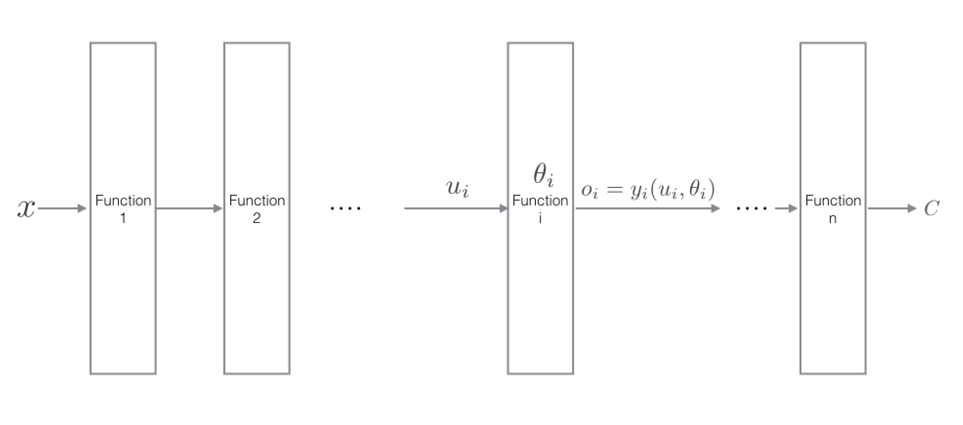
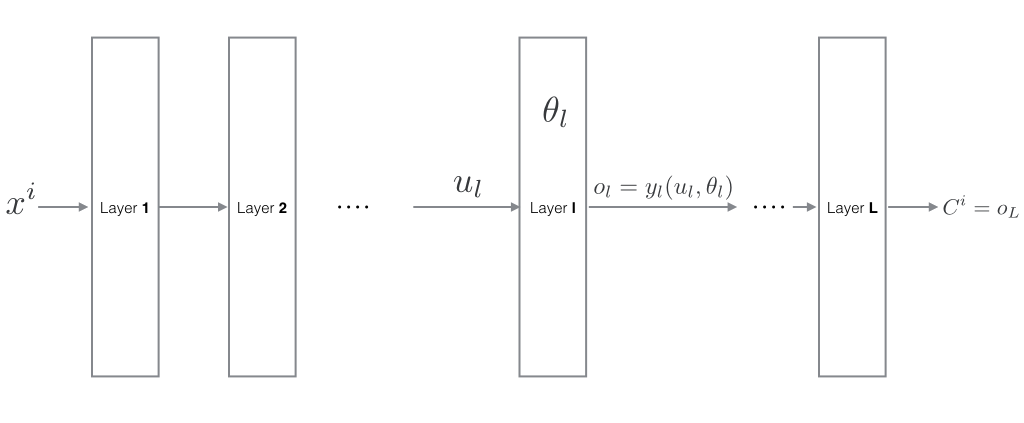
backprop variable names changed

diff --git a/_drafts/deep-learning-crash-course-1.md b/_drafts/deep-learning-crash-course-1.md
@@ -381,27 +381,30 @@ $$ C_i(\theta) = L\left(y(x^i, \theta), y^i \right)$$
 </figure>
 </div>
 
-Let's break the above function into composition of layers (or functions in general).
+Let's break the above function into composition of layers (or functions in general)<span id="brevity" class="margin-toggle sidenote-number"></span>
+<span class="sidenote">
+    Dropping subscript for brevity
+</span>
 
-$$ C = y_n \circ \ y_{n-1} \circ \cdots \circ y_1 $$
+$$ C = y_L \circ \ y_{L-1} \circ \cdots \circ y_l \circ \cdots \circ y_1 $$
 
-Here, $i$th 
+Here, $l$th 
 <span id="backprop" class="margin-toggle sidenote-number"></span>
 <span class="sidenote">
-    In particular, $C = o_n = y_n(u_n) = L(u_n, x_i)$
+    In particular, $C = o_L = y_L(u_L) = L(u_L, y^i)$
 </span>
-function takes in input $u_i$ and outputs 
+layer/function takes in input $u_l$ and outputs 
 
-$$o_i = y_i(u_i, \theta_i)  \tag{1}$$ 
+$$o_l = y_l(u_l, \theta_l)  \tag{1}$$ 
 
-where $\theta_i$ are learnable parameters of this function.
-Since output of $i-1$th layer is fed to $i$th layer as input, 
+where $\theta_l$ are learnable parameters of this layer.
+Since output of $l-1$th layer is fed to $l$ th layer as input, 
 
-$$u_i = o_{i-1} \tag{2}$$
+$$u_l = o_{l-1} \tag{2}$$
 
-We require $\nabla C = \left(\frac{\partial C}{\partial\theta_1}, \frac{\partial C}{\partial\theta_2}, \ldots, \frac{\partial C}{\partial\theta_n}\right)$. Therefore, we need to compute
+We require $\nabla C = \left(\frac{\partial C}{\partial\theta_1}, \frac{\partial C}{\partial\theta_2}, \ldots, \frac{\partial C}{\partial\theta_L}\right)$. Therefore, we need to compute
 
-$$ \frac{\partial C}{\partial\theta_j} = \frac{\partial o_n}{\partial\theta_j} 
+$$ \frac{\partial C}{\partial\theta_j} = \frac{\partial o_L}{\partial\theta_j} 
 \text{ for } j = 1, 2, \dots n $$
 
 To compute this quantity, we will compute generic
@@ -410,7 +413,7 @@ To compute this quantity, we will compute generic
     You will see ahead why this quantity is useful.
 </span>:
 
-$$ \frac{\partial o_i}{\partial \theta_j} $$
+$$ \frac{\partial o_m}{\partial \theta_l} $$
 
 Before getting started, let's write down the chain rule. Chain rule is the underlying operation of our algorithm.
 
@@ -424,55 +427,55 @@ $$
 
 ---
 
-If $j > i$, 
+If $m > l$, 
 
-$$ \frac{\partial o_i}{\partial \theta_j} = 0 \tag{4}$$
+$$ \frac{\partial o_m}{\partial \theta_l} = 0 \tag{4}$$
 
-because output of the functions in back doesn't depend on parameters of layer in the front.
+because output of the layers in back doesn't depend on parameters of layer in the front.
 
-If $j = i$, using equation (1) and the fact that $u_i$ and $\theta_i$ are independent,
+If $m = l$, using equation (1) and the fact that $u_l$ and $\theta_l$ are independent,
 
 $$ 
-\frac{\partial o_i}{\partial \theta_i} = \frac{\partial y_i}{\partial \theta_i}
+\frac{\partial o_l}{\partial \theta_l} = \frac{\partial y_l}{\partial \theta_l}
  \tag{5}
 $$
 
-$\frac{\partial y_i}{\partial \theta_i}$ is a computable quantity which depends on the form of function $y_i$.
+$\frac{\partial y_l}{\partial \theta_l}$ is a computable quantity which depends on the form of layer $y_l$.
 
-If $j < i$, using equation (1), (2), chain rule (3), 
+If $m < l$, using equation (1), (2), chain rule (3), 
 
 $$ 
 \begin{align}
-\frac{\partial o_i}{\partial \theta_j} &= \frac{\partial y_i}{\partial \theta_j}\\
-&= \frac{\partial y_i}{\partial u_i} * \frac{\partial u_i}{\partial \theta_j} + \frac{\partial y_i}{\partial \theta_i} * \frac{\partial \theta_i}{\partial \theta_j}\\
-&= \frac{\partial y_i}{\partial u_i} * \frac{\partial u_i}{\partial \theta_j}\\
-&= \frac{\partial y_i}{\partial u_i} * \frac{\partial o_{i-1}}{\partial \theta_j}
+\frac{\partial o_m}{\partial \theta_l} &= \frac{\partial y_m}{\partial \theta_l}\\
+&= \frac{\partial y_m}{\partial u_m} * \frac{\partial u_m}{\partial \theta_l} + \frac{\partial y_m}{\partial \theta_m} * \frac{\partial \theta_m}{\partial \theta_l}\\
+&= \frac{\partial y_m}{\partial u_m} * \frac{\partial u_m}{\partial \theta_l}\\
+&= \frac{\partial y_m}{\partial u_m} * \frac{\partial o_{m-1}}{\partial \theta_l}
 \end{align}
 $$
 
 Therefore,
 
 $$
-\frac{\partial o_i}{\partial \theta_j} = \frac{\partial y_i}{\partial u_i} * \frac{\partial o_{i-1}}{\partial \theta_j}
+\frac{\partial o_m}{\partial \theta_l} = \frac{\partial y_m}{\partial u_m} * \frac{\partial o_{m-1}}{\partial \theta_l}
 \tag{6}
 $$
 
-Like $\frac{\partial y_i}{\partial \theta_i}$, $\frac{\partial y_i}{\partial u_i}$ is a computable quantity which depends on $y_i$.
+Like $\frac{\partial y_l}{\partial \theta_l}$, $\frac{\partial y_l}{\partial u_l}$ is a computable quantity which depends on layer $y_l$.
 
 Let's put everything together and compute the required quantity:
 
 $$ 
 \begin{align}
-\frac{\partial C}{\partial \theta_j} &= \frac{\partial o_n}{\partial \theta_j}\\
-&= \frac{\partial y_n}{\partial u_n} * \frac{\partial o_{n-1}}{\partial \theta_j}\\
-&= \frac{\partial y_n}{\partial u_n} * \frac{\partial y_{n-1}}{\partial u_{n-1}} * \frac{\partial o_{n-2}}{\partial \theta_j} \\
+\frac{\partial C}{\partial \theta_l} &= \frac{\partial o_L}{\partial \theta_l}\\
+&= \frac{\partial y_L}{\partial u_L} * \frac{\partial o_{L-1}}{\partial \theta_l}\\
+&= \frac{\partial y_L}{\partial u_L} * \frac{\partial y_{L-1}}{\partial u_{L-1}} * \frac{\partial o_{L-2}}{\partial \theta_l} \\
 &\vdots \\
-&= \frac{\partial y_n}{\partial u_n} * \frac{\partial y_{n-1}}{\partial u_{n-1}} * \cdots * \frac{\partial y_{j-1}}{\partial u_{j-1}} * \frac{\partial o_j}{\partial \theta_j}\\
-&= \frac{\partial y_n}{\partial u_n} * \frac{\partial y_{n-1}}{\partial u_{n-1}} * \cdots * \frac{\partial y_{j-1}}{\partial u_{j-1}} * \frac{\partial y_j}{\partial \theta_j}
+&= \frac{\partial y_L}{\partial u_L} * \frac{\partial y_{L-1}}{\partial u_{L-1}} * \cdots * \frac{\partial y_{l-1}}{\partial u_{l-1}} * \frac{\partial o_l}{\partial \theta_l}\\
+&= \frac{\partial y_L}{\partial u_L} * \frac{\partial y_{L-1}}{\partial u_{L-1}} * \cdots * \frac{\partial y_{l-1}}{\partial u_{l-1}} * \frac{\partial y_l}{\partial \theta_l}
 \end{align}
 $$
 
-Now, algorithm to compute gradients $\nabla C$, i.e. $\frac{\partial C}{\partial \theta_j}$ for all $j$ is fairly clear:
+Now, algorithm to compute gradients $\nabla C$, i.e. $\frac{\partial C}{\partial \theta_l}$ for all $l$ is fairly clear:
 
 <span class="marginnote" margin-bottom='100px' >
     **Algorithm**: Backpropogation
@@ -483,17 +486,17 @@ Now, algorithm to compute gradients $\nabla C$, i.e. $\frac{\partial C}{\partial
 // Forward pass:
 
 1. Set $u_0 = x$
-2. For $i = 1, \dots n$, do
-    1. Store $u_i = y_i(u_{i-1}, \theta_i)$
+2. For $l = 1, \dots L$, do
+    1. Store $u_l = y_l(u_{l-1}, \theta_l)$
 
 // Backward pass:
 
 1. Set $\texttt{buffer} = 1$
-2. For $j = n, n-1, \dots 1$, do
-    1. Store $\frac{\partial C}{\partial \theta_j} = \frac{\partial y_j}{\partial \theta_j} * \texttt{buffer}$
-    2. Update $\texttt{buffer} = \frac{\partial y_j}{\partial u_j} * \texttt{buffer}$
+2. For $l = L, L-1, \dots 1$, do
+    1. Store $\frac{\partial C}{\partial \theta_l} = \frac{\partial y_l}{\partial \theta_l} * \texttt{buffer}$
+    2. Update $\texttt{buffer} = \frac{\partial y_l}{\partial u_l} * \texttt{buffer}$
 
-Return $\left(\frac{\partial C}{\partial\theta_1}, \frac{\partial C}{\partial\theta_2}, \ldots, \frac{\partial C}{\partial\theta_n}\right)$.
+Return $\left(\frac{\partial C}{\partial\theta_1}, \frac{\partial C}{\partial\theta_2}, \ldots, \frac{\partial C}{\partial\theta_L}\right)$.
 
 ----
 

diff --git a/_drafts/deep-learning-crash-course-2.md b/_drafts/deep-learning-crash-course-2.md
@@ -30,9 +30,9 @@ Let's try to understand why are deep networks hard to train:
 
 1. Consider the number of parameters in the network. They are huge! If we have to connect 1000 unit hidden layer to 224x224 (50,176) image, we have $65,536*1000 \approx 50e6$ parameters in that layer alone! There are so many parameters that network can easily overfit on the data without generalization.
 2. Gradients are unstable. Recall the expression for the gradients,
-    $\frac{\partial C}{\partial \theta_j} = \frac{\partial y_n}{\partial u_n} * \frac{\partial y_{n-1}}{\partial u_{n-1}} * \cdots * \frac{\partial y_{j-1}}{\partial u_{j-1}} * \frac{\partial y_j}{\partial \theta_j}$. If few of $\frac{\partial y_i}{\partial u_i} \ll 1$, they will multiply up and make $\frac{\partial C}{\partial \theta_j} \approx 0 $.
+    $\frac{\partial C}{\partial \theta_l} = \frac{\partial y_L}{\partial u_L} * \frac{\partial y_{L-1}}{\partial u_{L-1}} * \cdots * \frac{\partial y_{l-1}}{\partial u_{l-1}} * \frac{\partial y_l}{\partial \theta_l}$. If few of $\frac{\partial y_m}{\partial u_m} \ll 1$, they will multiply up and make $\frac{\partial C}{\partial \theta_l} \approx 0 $.
     <span id="backprop-sigmoid" class="margin-toggle sidenote-number"></span>
-    Similarly if few of $\frac{\partial y_i}{\partial u_i} \gg 1$, they make $\frac{\partial C}{\partial \theta_j} \to \infty$.
+    Similarly if few of $\frac{\partial y_m}{\partial u_m} \gg 1$, they make $\frac{\partial C}{\partial \theta_l} \to \infty$.
 <span class="sidenote">
     This is the reason why sigmoids are avoided. For sigmoid, $\frac{\partial y}{\partial u} = \frac{d \sigma}{d z}|_{z=u}$ is close to zero if $u$ is either too large or too small. It's maximum is only $1/4$
 </span>
@@ -253,9 +253,9 @@ We call such expansion as *data augmentation*. Rotation is not the only way to a
 Training neural networks is a highly non convex problem. Therefore, initialization of parameters to be optimized is important. 
 To understand better, recall the unstable gradient problem. This is the equation of gradients for parameters in $j$th layer:
 
-$$\frac{\partial C}{\partial \theta_j} = \frac{\partial y_n}{\partial u_n} * \frac{\partial y_{n-1}}{\partial u_{n-1}} * \cdots * \frac{\partial y_{j-1}}{\partial u_{j-1}} * \frac{\partial y_j}{\partial \theta_j}$$
+$$\frac{\partial C}{\partial \theta_l} = \frac{\partial y_L}{\partial u_L} * \frac{\partial y_{L-1}}{\partial u_{L-1}} * \cdots * \frac{\partial y_{l-1}}{\partial u_{l-1}} * \frac{\partial y_l}{\partial \theta_l}$$
 
-If each layer is not properly initialized, scales inputs by $k$, i.e $\frac{\partial y_i}{\partial u_i} \approx k$. Therefore gradients of parameters in $l$ th layer is 
+If each layer is not properly initialized, scales inputs by $k$, i.e $\frac{\partial y_m}{\partial u_m} \approx k$. Therefore gradients of parameters in $l$ th layer is 
     
 $$\frac{\partial C}{\partial \theta_l} = k^{L - l}$$
 
